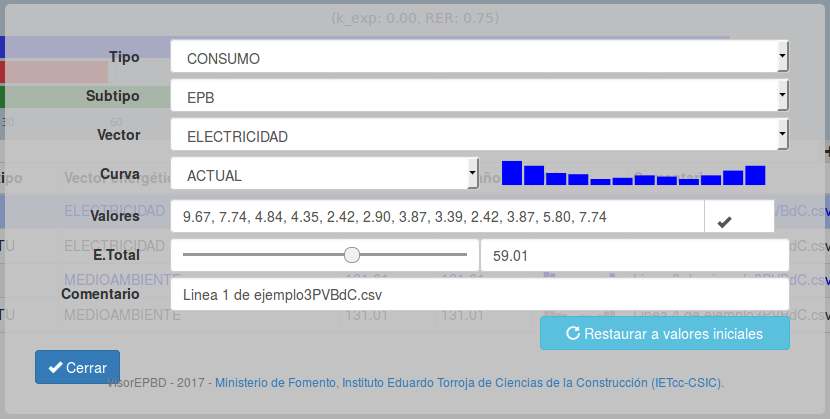
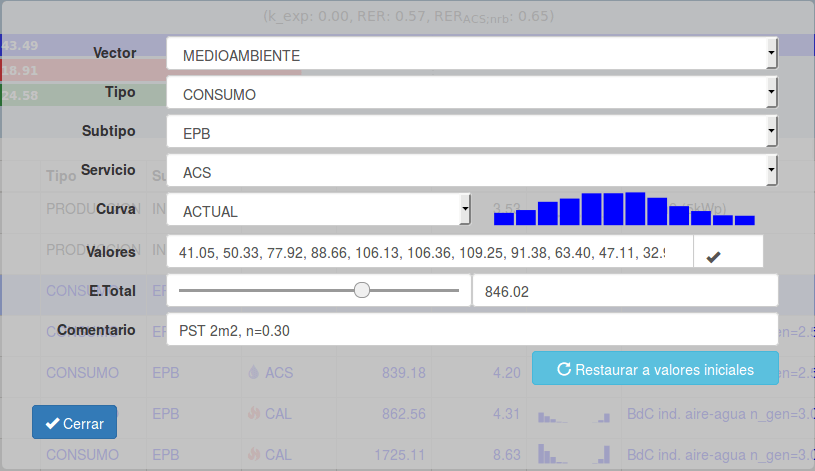
HelpPage: Corrige textos y capturas de pantalla

diff --git a/app/components/HelpPage.jsx b/app/components/HelpPage.jsx
@@ -101,7 +101,9 @@ const HelpPage = props => (
         <h4>Diagrama de indicadores</h4>
 
         <img className="img-responsive col-md-offset-2" width="60%" src={interfaz_indicadores} />
-        <p>El diagrama muestra los indicadores: <b>consumo de energía primaria total (<i>C<sub>ep,tot</sub></i>)</b>, <b>consumo de energía primaria no renovable (<i>C<sub>ep,nren</sub></i>)</b> y <b>consumo de energía primaria renovable (<i>C<sub>ep,ren</sub></i>)</b>, además de la fracción de energía renovable (<i>RER</i>) y el factor de exportación utilizado en el cálculo.</p>
+        <p>El diagrama muestra barras y valores del <b>consumo de energía primaria total (<i>C<sub>ep,tot</sub></i>)</b>, el <b>consumo de energía primaria no renovable (<i>C<sub>ep,nren</sub></i>)</b> y el <b>consumo de energía primaria renovable (<i>C<sub>ep,ren</sub></i>)</b>.</p>
+
+        <p>El subtítulo del diagrama indica el factor de exportación utilizado en el cálculo (<i>k<sub>exp</sub></i>), la <b>fracción de energía energía primaria de origen renovable (<i>RER</i>)</b> y la <b>fracción de energía primaria de origen renovable para el servicio de ACS obtenido con factores de paso para el perímetro próximo (<i>RER<sub>ACS;nrb</sub></i>)</b>.</p>
 
         <h4>Componentes energéticos</h4>
 
@@ -111,13 +113,14 @@ const HelpPage = props => (
 
         <p>La tabla muestra en columnas la siguiente información sobre cada componente energético:</p>
         <ul>
-          <li>(Activación): permite activar o desactivar la línea en el cálculo</li>
-          <li><b>Tipo</b>: define si se trata de un componente de tipo <tt>CONSUMO</tt> o <tt>PRODUCCION</tt></li>
-          <li><b>Subtipo</b>: define el origen de la energía producida o el uso de la energía consumida</li>
-          <li><b>Vector energético</b>: vector energético del componente</li>
-          <li><b>kWh/a</b>: muestra la energía final total del componente energético</li>
-          <li><b>kWh/m²·a</b>: muestra la energía final total del componente, repercutida por el área de referencia</li>
-          <li><b>Valores</b>: muestra un histograma de los valores mensuales de energía final del componente</li>
+          <li>(Activación): permite activar o desactivar la línea en el cálculo;</li>
+          <li><b>Tipo</b>: define si se trata de un componente de tipo <tt>CONSUMO</tt> o <tt>PRODUCCION</tt>;</li>
+          <li><b>Subtipo</b>: define el origen de la energía producida (<tt>INSITU</tt> o <tt>COGENERACION</tt>,) o el uso de la energía consumida (<tt>EPB</tt> para usos EPB, o <tt>NEPB</tt> para usos no EPB);</li>
+          <li><b>Servicio</b>: servicio al que se refiere el componente energético (puede tomar un valor entre: <tt>CAL</tt>, <tt>REF</tt>, <tt>ACS</tt>, <tt>VEN</tt>, <tt>ILU</tt>, <tt>HU</tt>, <tt>DHU</tt> o <tt>NDEF</tt>, referidos, respectivamente, a los servicios de calefacción, refrigeración, agua caliente sanitaria, ventilación, iluminación, humidificación, deshumidificación o cualquiera de los servicios definidos;</li>
+          <li><b>Vector energético</b>: vector energético del componente (puede tomar un valor entre los siguientes: <tt>BIOCARBURANTE</tt>, <tt>BIOMASA</tt>, <tt>BIOMASADENSIFICADA</tt>, <tt>CARBON</tt>, <tt>ELECTRICIDAD</tt>, <tt>FUELOIL</tt>, <tt>GASNATURAL</tt>, <tt>GASOLEO</tt>, <tt>GLP</tt>, <tt>MEDIOAMBIENTE</tt>, <tt>RED1</tt>, <tt>RED2</tt>, donde <tt>RED1</tt> y <tt>RED2</tt> son vectores genéricos para redes de distrito, con factores de paso definibles por el usuario, y <tt>MEDIOAMBIENTE</tt> es energía térmica extraída del medioambiente);</li>
+          <li><b>kWh/a</b>: muestra la suma de los valores mensuales de energía final del componente energético;</li>
+          <li><b>kWh/m²·a</b>: muestra suma de los valores mensuales de energía final del componente, repercutida por el área de referencia;</li>
+          <li><b>Valores</b>: muestra un histograma de los valores mensuales de energía final del componente;</li>
           <li><b>Comentario</b>: muestra un comentario descriptivo del componente energético.</li>
         </ul>
         <p>Las líneas de tipo <tt>CONSUMO</tt> se muestran en color azul y las de tipo <tt>PRODUCCION</tt> en color negro, y se resalta la línea seleccionada.</p>
@@ -131,10 +134,10 @@ const HelpPage = props => (
         <p className="well alert-danger">NOTA: El interés de este apartado es exploratorio, al permitir modificar los datos de entrada.</p>
 
         <p>El panel de edición muestra una ventana que permite modificar los datos del componente energético actualmente seleccionado.</p>
-        <p>Se pueden cambiar el <b>tipo</b> de valores (<tt>CONSUMO</tt> o <tt>PRODUCCION</tt>), el <b>origen</b> (<tt>COGENERACION</tt> o <tt>INSITU</tt>, para líneas de tipo <tt>PRODUCCION</tt>) o <b>uso</b> (<tt>EPB</tt> o <tt>NEPB</tt>, para líneas de tipo <tt>CONSUMO</tt>) y el <b>vector</b> energético.</p>
-        <p>El desplegable <b>Curva</b> permite modificar la forma de la línea de valores del componente energético (que se muestra a su derecha), manteniendo la forma actual o estableciendo una forma distinta (constante, creciente, decreciente, cóncava, convexa), manteniendo el valor de energía (final) total del componente.</p>
+        <p>Se pueden cambiar el <b>vector energético</b>, el <b>tipo</b> de valores (<tt>CONSUMO</tt> o <tt>PRODUCCION</tt>), el <b>subtipo</b> (<tt>COGENERACION</tt> o <tt>INSITU</tt>, para líneas de tipo <tt>PRODUCCION</tt>, y <tt>EPB</tt> o <tt>NEPB</tt>, para líneas de tipo <tt>CONSUMO</tt>) y el <b>servicio</b> al que se destina la energía.</p>
+        <p>El desplegable <b>Curva</b> permite modificar la forma de la línea de valores del componente energético (que se muestra a su derecha), manteniendo la forma actual o estableciendo una forma distinta (constante, creciente, decreciente, cóncava, convexa), manteniendo el valor de energía (final) total del componente. El interés de este control reside en el uso del programa para el diseño, donde puede resultar útil partir de un valor total anual y una distribución mensual con una forma genérica.</p>
         <p>La entrada <b>Valores</b> permite modificar los valores de energía final de cada paso de cálculo (valores mensuales) editando una cadena de valores numéricos separados por comas.</p>
-        <p>La entrada de <b>Energía total</b> permite escalar los valores de cada paso de cálculo (valores mensuales) del componente energético, manteniendo su forma. Permite actuar moviendo el deslizador lateral o introduciendo un valor o una expresión matemática simple (+-*/), debiendo presionar la tecla ENTER para aceptar el valor introducido.</p>
+        <p>El botón deslizante y la entrada de <b>Energía total</b> permite escalar los valores de cada paso de cálculo (valores mensuales) del componente energético, manteniendo su forma. Permite actuar moviendo el deslizador lateral o introduciendo un valor o una expresión matemática simple (+-*/), debiendo presionar la tecla ENTER para aceptar el valor introducido.</p>
 
         <p><img className="img-responsive col-md-offset-2" width="60%" src={interfaz_entradavalorexpresion} /></p>
 
